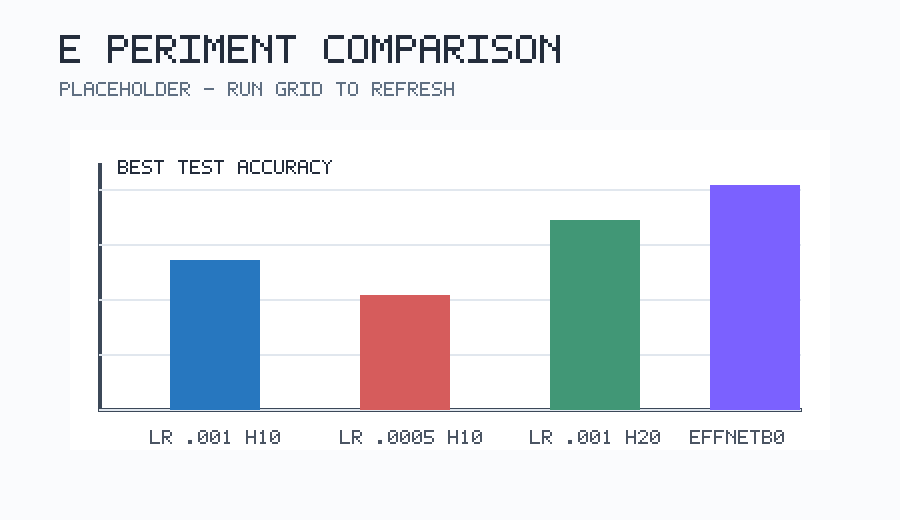
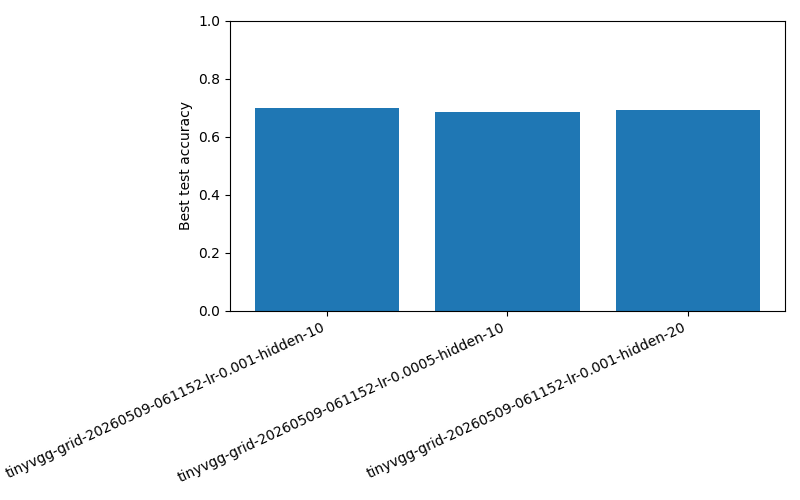
Update from Kaggle run, fix folder naming, improve test coverage

diff --git a/tests/test_utils.py b/tests/test_utils.py
@@ -1,0 +1,35 @@
+import torch
+import tempfile
+from pathlib import Path
+from going_modular import utils, model_builder
+
+def test_save_and_load_model():
+    model = model_builder.create_tinyvgg(10, 3, 64)
+    with tempfile.TemporaryDirectory() as tmpdir:
+        save_path = utils.save_model(model, tmpdir, "test_model.pth")
+        assert save_path.exists()
+        
+        loaded_model = model_builder.create_tinyvgg(10, 3, 64)
+        loaded_model = utils.load_model(loaded_model, save_path)
+        assert isinstance(loaded_model, torch.nn.Module)
+
+def test_save_json():
+    with tempfile.TemporaryDirectory() as tmpdir:
+        json_path = Path(tmpdir) / "test.json"
+        utils.save_json({"a": 1}, json_path)
+        assert json_path.exists()
+        assert json_path.read_text().strip() == '{\n  "a": 1\n}'
+
+def test_plot_curves():
+    results = {"train_loss": [1.0, 0.5], "test_loss": [1.2, 0.6], "train_acc": [0.5, 0.8], "test_acc": [0.4, 0.7]}
+    with tempfile.TemporaryDirectory() as tmpdir:
+        save_path = Path(tmpdir) / "loss_curves.png"
+        utils.plot_loss_curves(results, save_path)
+        assert save_path.exists()
+
+def test_plot_experiment():
+    summaries = [{"run_name": "a", "best_test_acc": 0.8}, {"run_name": "b", "best_test_acc": 0.9}]
+    with tempfile.TemporaryDirectory() as tmpdir:
+        save_path = Path(tmpdir) / "comp.png"
+        utils.plot_experiment_comparison(summaries, save_path)
+        assert save_path.exists()

diff --git a/going_modular/utills.py b/going_modular/utills.py
@@ -1,7 +1,7 @@
 """Backward-compatible utilities module.
 
 The original project tab used ``utills.py``. New code can import from
-``going_moduler.utils``; this file re-exports the same helpers.
+``going_modular.utils``; this file re-exports the same helpers.
 """
 
-from going_moduler.utils import *  # noqa: F401,F403
+from going_modular.utils import *  # noqa: F401,F403

diff --git a/tests/test_engine_model.py b/tests/test_engine_model.py
@@ -2,8 +2,8 @@ import torch
 from torch import nn
 from torch.utils.data import DataLoader, TensorDataset
 
-from going_moduler import engine
-from going_moduler.model_builder import create_tinyvgg
+from going_modular import engine
+from going_modular.model_builder import create_tinyvgg
 
 
 def test_tinyvgg_forward_shape() -> None:

diff --git a/tests/test_data_setup.py b/tests/test_data_setup.py
@@ -4,7 +4,7 @@ import pytest
 import torch
 from PIL import Image
 
-from going_moduler.data_setup import ImageDataset, build_transforms, create_dataloaders
+from going_modular.data_setup import ImageDataset, build_transforms, create_dataloaders
 
 
 def _write_image(path: Path, color: tuple[int, int, int]) -> None:

diff --git a/going_modular/train.py b/going_modular/train.py
@@ -10,7 +10,7 @@ import torch
 from torch import nn
 
 try:
-    from going_moduler import data_setup, engine, model_builder, utils
+    from going_modular import data_setup, engine, model_builder, utils
 except ImportError:
     import data_setup
     import engine

diff --git a/predict.py b/predict.py
@@ -7,7 +7,7 @@ from pathlib import Path
 
 import torch
 
-from going_moduler import data_setup, model_builder, utils
+from going_modular import data_setup, model_builder, utils
 
 
 def parse_args() -> argparse.Namespace:

diff --git a/train.py b/train.py
@@ -1,6 +1,6 @@
 """Repo-root wrapper so TAs can run: python train.py --epochs 5 --lr 0.001."""
 
-from going_moduler.train import main
+from going_modular.train import main
 
 
 if __name__ == "__main__":

diff --git a/utils.py b/utils.py
@@ -1,3 +1,3 @@
 """Repo-root compatibility wrapper for rubric imports."""
 
-from going_moduler.utils import *  # noqa: F401,F403
+from going_modular.utils import *  # noqa: F401,F403
